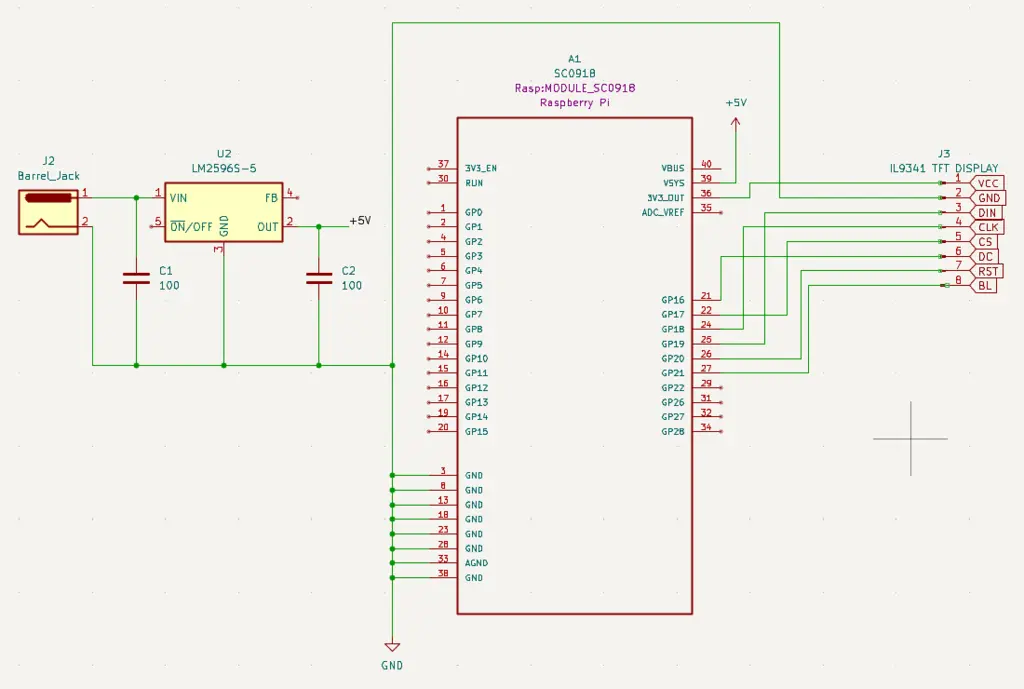
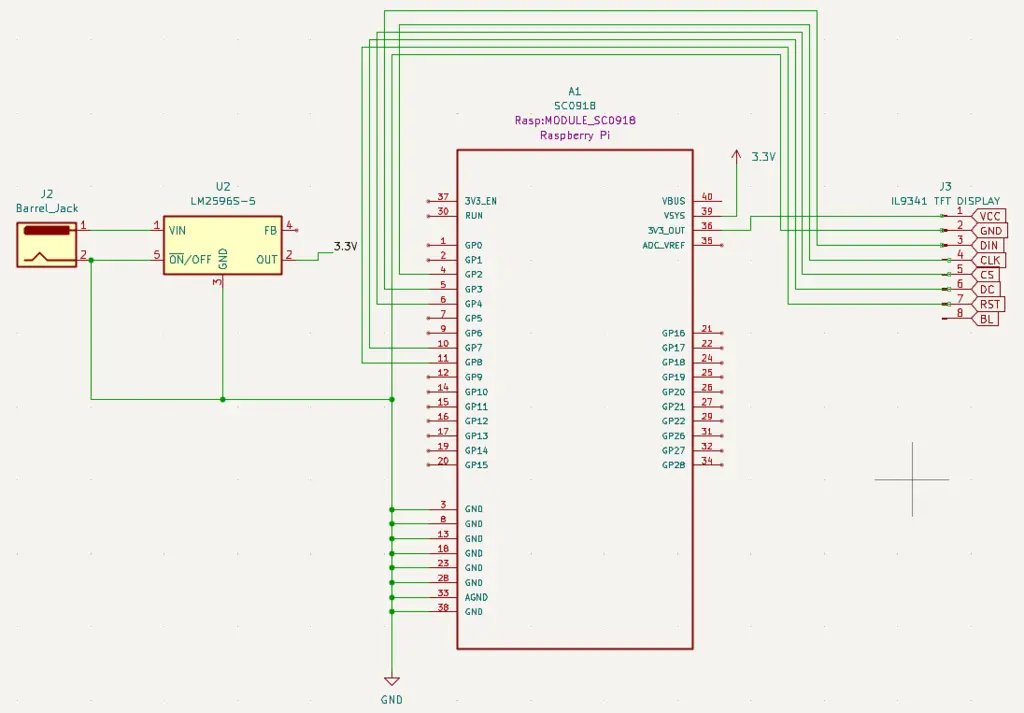
Updated docs: Removed joystick, changed diagrams, changed buttons, added weekly logs

diff --git a/website/versioned_docs/version-acs_cc/project/2025/alexandru.grecu2711/index.md b/website/versioned_docs/version-acs_cc/project/2025/alexandru.grecu2711/index.md
@@ -12,7 +12,7 @@ A custom-built gaming system with a WiFi-connected console and controller
 
 The project is similar to a PlayStation or an Xbox. It has:
  - a console that runs a game by itself and displays it on a screen
- - a controller with buttons and a joystick that runs separate from the console and transmits user input through WiFi
+ - a controller with buttons that runs separate from the console and transmits user input through WiFi
 
 ## Motivation
 
@@ -24,7 +24,7 @@ The system architecture consists of two main components: the Console and the Con
 
  - The Console includes the Raspberry Pi Pico W running the game logic, rendering 2D graphics (such as a Snake-like game) on an attached LCD display.
 
- - The Controller is a separate device, also based on a Raspberry Pi Pico W, equipped with tactile buttons and an analog joystick to capture user inputs.
+ - The Controller is a separate device, also based on a Raspberry Pi Pico W, equipped with tactile buttons to capture user inputs.
 
  - Communication between the Controller and the Console happens over WiFi. The Controller sends input data, and the Console processes it to update the game state and display it accordingly.
 
@@ -35,8 +35,10 @@ The system architecture consists of two main components: the Console and the Con
 <!-- write your progress here every week -->
 
 ### Week 5 - 11 May
+Started the project by setting up the Raspberry Pi Pico 2W and the LCD display. I managed to display a simple "Hello World" message on the screen. I also started working on the controller, connecting the buttons and testing their functionality.
 
 ### Week 12 - 18 May
+I finished the whole harware setup, including drawing power from the 9V batteries. I also managed to send button presses from the controller to the console over WiFi. The console receives the input and displays the pressed button on the screen.
 
 ### Week 19 - 25 May
 
@@ -56,7 +58,6 @@ The project uses the following hardware components:
 #### Controller:
  - Raspberry Pi Pico 2W
  - Tactile Buttons
- - Analog Joystick Module
  - 9V Battery Support
  - 9V Battery
  - Breadboard, Required wiring and connectors
@@ -76,11 +77,10 @@ The project uses the following hardware components:
 | 2x DC-DC Step Down Module LM2596S | DC-DC Step Down Module | [26 RON](https://www.optimusdigital.ro/ro/surse-coboratoare-reglabile/1108-modul-dc-dc-step-down-lm2596hv.html?search_query=Modul+DC-DC+Step+Down+LM2596S&results=2) |
 | 2x 9V Battery Support | 9V Battery Support | [2,60 RON](https://www.optimusdigital.ro/ro/suporturi-de-baterii/20-conector-pentru-baterie-de-9-v.html?search_query=%09Suport+pentru+baterie+de+9+V&results=56) |
 | 2x 9V Battery | 9V Battery | 20 RON |
-| Set 5 Tactile Buttons | Tactile Buttons | [9 RON](https://www.robofun.ro/butoane-tastaturi/5pcs-set-electronic-building-blocks-big-key-button-module.html) |
-| [Analog Joystick Module PS2](https://docs.sunfounder.com/projects/sensorkit-v2-arduino/en/latest/lesson_12.html) | Joystick | [4 RON](https://www.robofun.ro/butoane-tastaturi/modul-joystick-ps2.html)
+| 4 Tactile Buttons | Tactile Buttons | 5 RON |
 | Breadboard, Required wiring and connectors | Breadboard, Required wiring and connectors | 30 RON
 | 3D Printed Plastic Cases | 3D Printed Plastic Cases | TBA |
-| Total | | 260.6 RON |
+| Total | | 252.6 RON |
 
 
 ## Software
